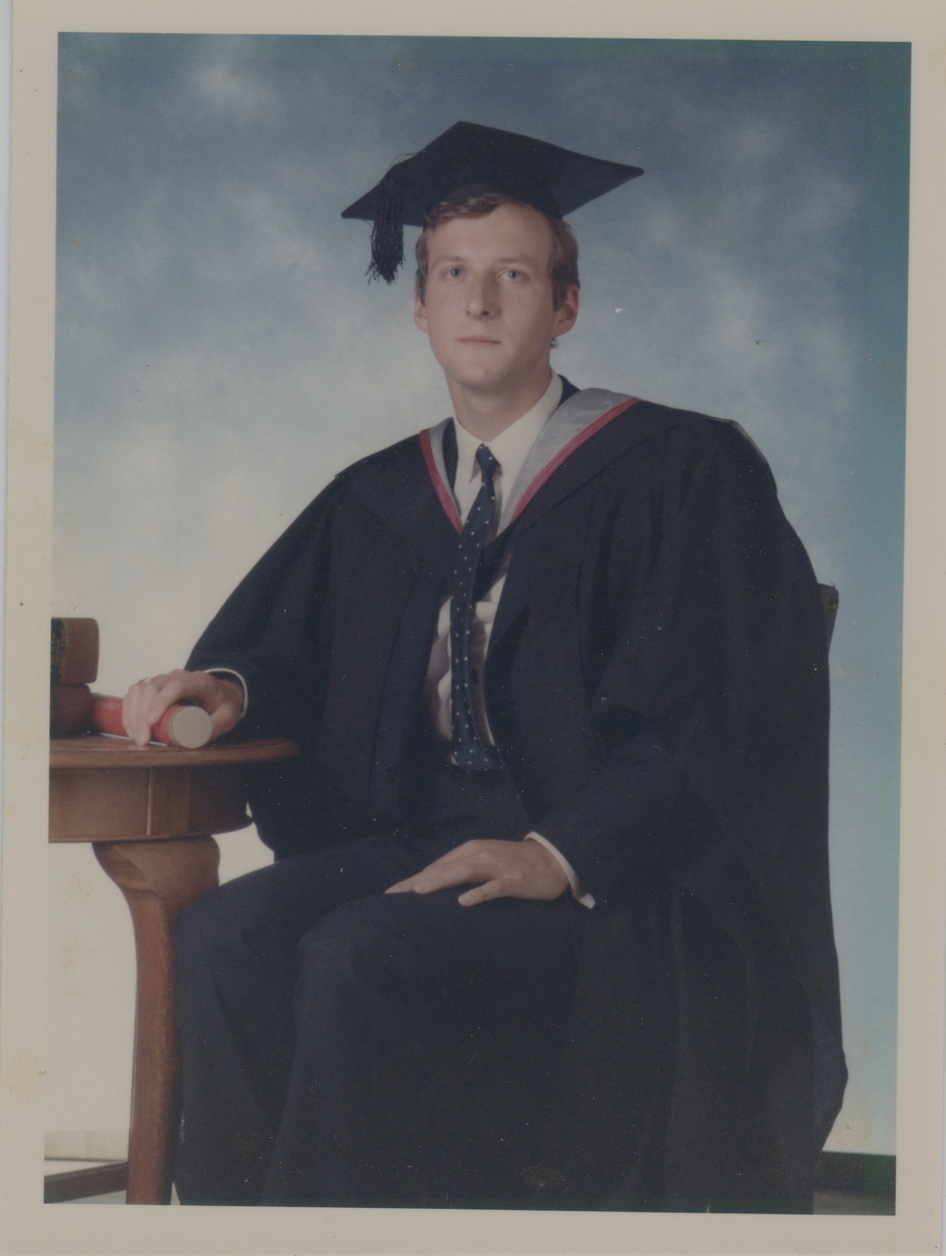
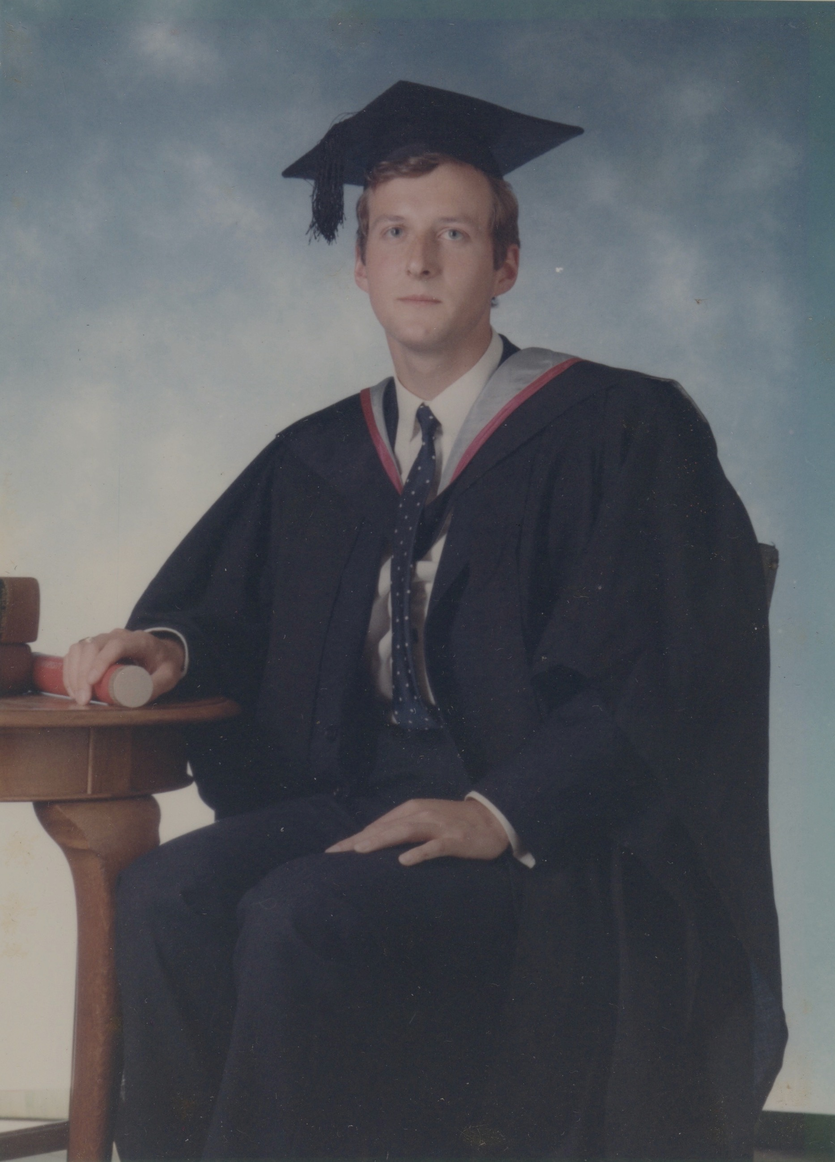
more photos

diff --git a/family/history/JamesHinxman/DavidJames/DavidJames.html b/family/history/JamesHinxman/DavidJames/DavidJames.html
@@ -14,17 +14,23 @@
             </div>
         </div>
         <div id="middle">
-            <div id="content" style="position: relative; height: 500px;">
+            <div id="content" style="position: relative; height: 1500px;">
               <img id="photo" style=" float: left; width: 100px; margin: 0px 20px 20px 0px;" src="images/David.jpg">
               <p>Born 1st June 1948 in North Middlesex hospital, Edmonton.</p>
               <p>Married Angela Hinxman on 5th August 1972.</p>
-              <p>Recollections and remeniscences captured <a href="https://aanddnotes.github.io/ROM/cover.html">here</a>.</p>
+              <p>Recollections and reminiscences captured <a href="https://aanddnotes.github.io/ROM/cover.html">here</a>.</p>
+              <p>The following photos are in chronological order, although the dates on which most were taken are guesses.</p>
+              <p><img id="photo" style=" float: left; width: 250px; margin: 0px 20px 20px 0px;" src="images/me1yr.jpg">This is me at one year old.</p>
+              <p><img id="photo" style=" float: left; width: 400px; margin: 0px 20px 20px 0px;" src="images/pedalCar.jpg">It seems that I had an interest in cars from an early age (about three?).</p>
+              <p style="clear: both;"><img id="photo" style=" float: left; width: 250px; margin: 0px 20px 20px 0px;" src="images/Cowboy.jpg">My heroes were Gene Autry (the singing cowboy) and Tex Ritter.</p>
+              <p><img id="photo" style=" float: left; width: 400px; margin: 0px 20px 20px 0px;" src="images/AlanDavid.jpg">I guess that Alan is about six months old, which would make me six.</p>
+              <p style="clear: both;"><img id="photo" style=" float: left; width: 250px; margin: 0px 20px 20px 0px;" src="images/DavidGraduation.jpg">This brings us to 1969 and my graduation from the University of Lancaster.</p>
             </div>
         </div>
         <div id="bottom" style="clear: both; font-size:70%">
             <div style="margin: 0px 20px 10px 20px">
                 <hr style="border-color: maroon">
-                <p style="float: left">&copy; David James 2021 Last updated: 13th July 2021</p>
+                <p style="float: left">&copy; David James 2022 Last updated: 18th July 2022</p>
                 <p style="float: right">Return to <a href="../JamesHinxman.html">James/Hinxman family</a></p>
             </div>
         </div>
